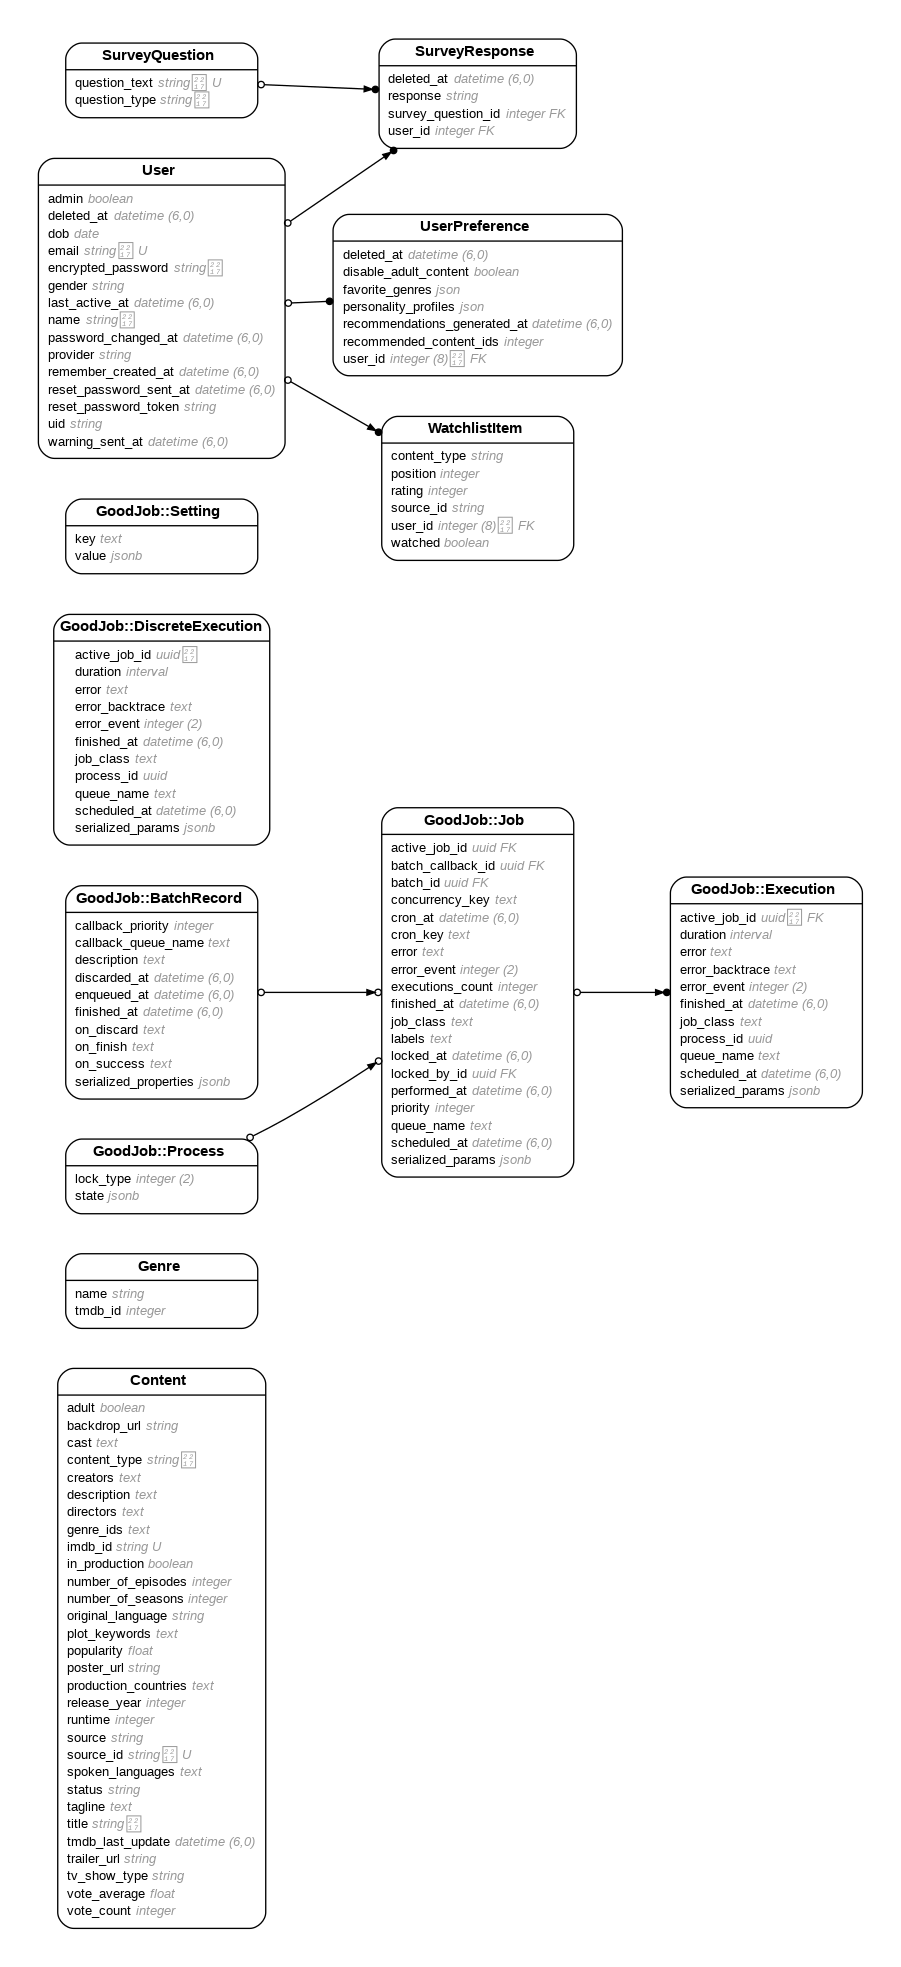
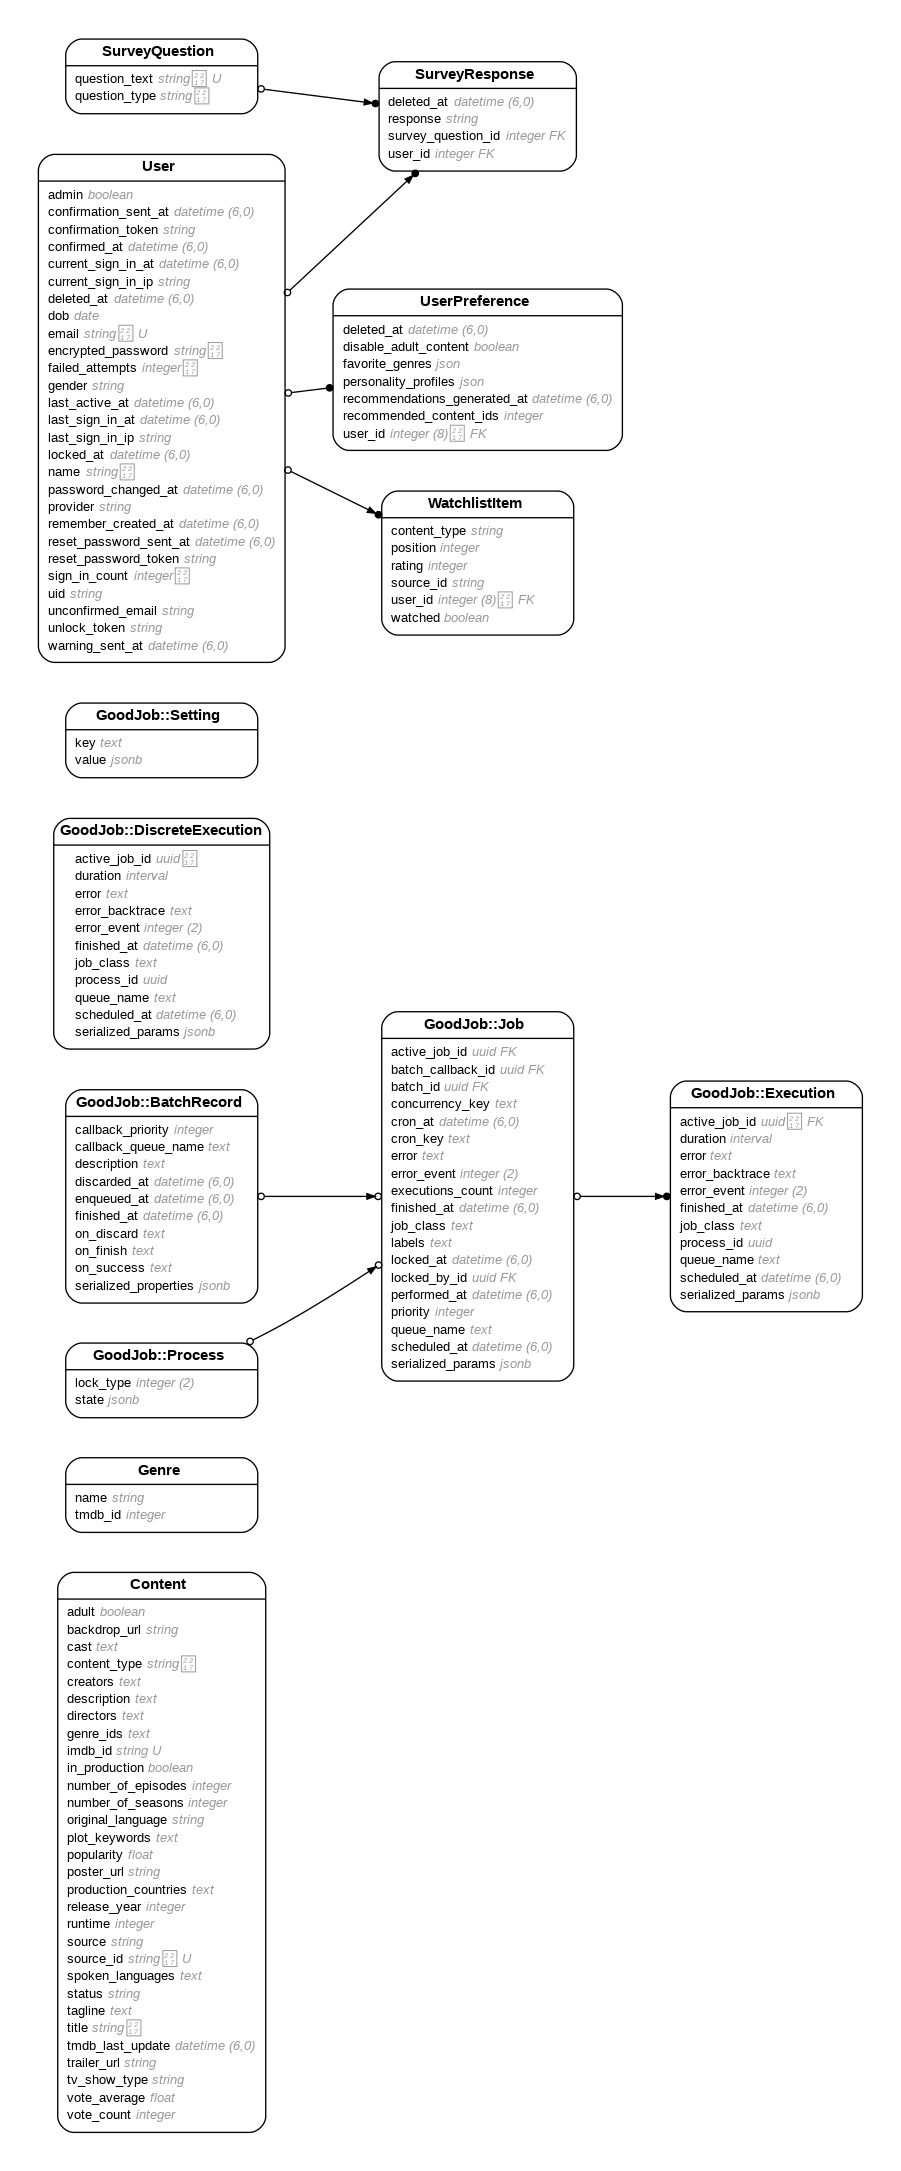
setup advanced security with Devise

diff --git a/app/assets/stylesheets/application.css b/app/assets/stylesheets/application.css
@@ -1026,3 +1026,22 @@ h6 {
     line-height: 1.3;
   }
 }
+
+.btn-group-responsive {
+  display: flex;
+  flex-direction: column;
+  gap: 0.5rem;
+}
+
+@media (min-width: 400px) {
+  .btn-group-responsive {
+    flex-direction: row;
+    justify-content: space-between;
+    align-items: center;
+  }
+  
+  .btn-group-responsive .btn-group {
+    display: flex;
+    gap: 0.5rem;
+  }
+}

diff --git a/config/initializers/devise.rb b/config/initializers/devise.rb
@@ -90,7 +90,7 @@ Devise.setup do |config|
   # It will change confirmation, password recovery and other workflows
   # to behave the same regardless if the e-mail provided was right or wrong.
   # Does not affect registerable.
-  # config.paranoid = true
+  config.paranoid = true
 
   # By default Devise will store the user in session. You can skip storage for
   # particular strategies by setting this option.
@@ -129,10 +129,10 @@ Devise.setup do |config|
[1 lines of base64/hex data omitted]
 
   # Send a notification to the original email when the user's email is changed.
-  # config.send_email_changed_notification = false
+  config.send_email_changed_notification = true
 
   # Send a notification email when the user's password is changed.
-  # config.send_password_change_notification = false
+  config.send_password_change_notification = true
 
   # ==> Configuration for :confirmable
   # A period that the user is allowed to access the website even without
@@ -143,7 +143,7 @@ Devise.setup do |config|
   # without confirming their account.
   # Default is 0.days, meaning the user cannot access the website without
   # confirming their account.
-  # config.allow_unconfirmed_access_for = 2.days
+  config.allow_unconfirmed_access_for = 1.day
 
   # A period that the user is allowed to confirm their account before their
   # token becomes invalid. For example, if set to 3.days, the user can confirm
@@ -151,7 +151,7 @@ Devise.setup do |config|
   # their account can't be confirmed with the token any more.
   # Default is nil, meaning there is no restriction on how long a user can take
   # before confirming their account.
-  # config.confirm_within = 3.days
+  config.confirm_within = 3.days
 
   # If true, requires any email changes to be confirmed (exactly the same way as
   # initial account confirmation) to be applied. Requires additional unconfirmed_email
@@ -170,11 +170,11 @@ Devise.setup do |config|
   config.expire_all_remember_me_on_sign_out = true
 
   # If true, extends the user's remember period when remembered via cookie.
-  # config.extend_remember_period = false
+  config.extend_remember_period = false
 
   # Options to be passed to the created cookie. For instance, you can set
   # secure: true in order to force SSL only cookies.
-  # config.rememberable_options = {}
+  config.rememberable_options = { secure: true, same_site: :strict }
 
   # ==> Configuration for :validatable
   # Range for password length.
@@ -194,7 +194,7 @@ Devise.setup do |config|
   # Defines which strategy will be used to lock an account.
   # :failed_attempts = Locks an account after a number of failed attempts to sign in.
   # :none            = No lock strategy. You should handle locking by yourself.
-  # config.lock_strategy = :failed_attempts
+  config.lock_strategy = :failed_attempts
 
   # Defines which key will be used when locking and unlocking an account
   # config.unlock_keys = [:email]
@@ -204,17 +204,17 @@ Devise.setup do |config|
   # :time  = Re-enables login after a certain amount of time (see :unlock_in below)
   # :both  = Enables both strategies
   # :none  = No unlock strategy. You should handle unlocking by yourself.
-  # config.unlock_strategy = :both
+  config.unlock_strategy = :both
 
   # Number of authentication tries before locking an account if lock_strategy
   # is failed attempts.
-  # config.maximum_attempts = 20
+  config.maximum_attempts = 5
 
   # Time interval to unlock the account if :time is enabled as unlock_strategy.
-  # config.unlock_in = 1.hour
+  config.unlock_in = 1.hour
 
   # Warn on the last attempt before the account is locked.
-  # config.last_attempt_warning = true
+  config.last_attempt_warning = true
 
   # ==> Configuration for :recoverable
   #
@@ -335,13 +335,13 @@ Devise.setup do |config|
   # config.captcha_for_recover = true
 
   # captcha integration for sign up form
-  # config.captcha_for_sign_up = true
+  config.captcha_for_sign_up = true
 
   # captcha integration for sign in form
   # config.captcha_for_sign_in = true
 
   # captcha integration for unlock form
-  # config.captcha_for_unlock = true
+  config.captcha_for_unlock = true
 
   # captcha integration for confirmation form
   # config.captcha_for_confirmation = true

diff --git a/app/models/user.rb b/app/models/user.rb
@@ -6,39 +6,54 @@
 #
 #  id                     :bigint           not null, primary key
 #  admin                  :boolean          default(FALSE)
+#  confirmation_sent_at   :datetime
+#  confirmation_token     :string
+#  confirmed_at           :datetime
+#  current_sign_in_at     :datetime
+#  current_sign_in_ip     :string
 #  deleted_at             :datetime
 #  dob                    :date
 #  email                  :string           default(""), not null
 #  encrypted_password     :string           default(""), not null
+#  failed_attempts        :integer          default(0), not null
 #  gender                 :string
 #  last_active_at         :datetime
+#  last_sign_in_at        :datetime
+#  last_sign_in_ip        :string
+#  locked_at              :datetime
 #  name                   :string
 #  password_changed_at    :datetime
 #  provider               :string
 #  remember_created_at    :datetime
 #  reset_password_sent_at :datetime
 #  reset_password_token   :string
+#  sign_in_count          :integer          default(0), not null
 #  uid                    :string
+#  unconfirmed_email      :string
+#  unlock_token           :string
 #  warning_sent_at        :datetime
 #  created_at             :datetime         not null
 #  updated_at             :datetime         not null
 #
 # Indexes
 #
+#  index_users_on_confirmation_token    (confirmation_token) UNIQUE
 #  index_users_on_deleted_at            (deleted_at)
 #  index_users_on_email                 (email) UNIQUE
 #  index_users_on_last_active_at        (last_active_at)
 #  index_users_on_provider_and_uid      (provider,uid) UNIQUE
 #  index_users_on_reset_password_token  (reset_password_token) UNIQUE
+#  index_users_on_unlock_token          (unlock_token) UNIQUE
 #  index_users_on_warning_sent_at       (warning_sent_at)
 #
 class User < ApplicationRecord
   acts_as_paranoid
 
   # Include default devise modules. Others available are:
-  # :confirmable, :lockable, :timeoutable, :trackable and :omniauthable
+  # :confirmable, :lockable, :timeoutable, :trackable
   devise :database_authenticatable, :registerable,
          :recoverable, :rememberable, :validatable,
+         :confirmable, :lockable, :trackable,
          :secure_validatable, :timeoutable,
          :omniauthable, omniauth_providers: [:google_oauth2, :facebook, :twitter, :apple]
 

diff --git a/db/schema.rb b/db/schema.rb
@@ -10,7 +10,7 @@
 #
 # It's strongly recommended that you check this file into your version control system.
 
-ActiveRecord::Schema[7.1].define(version: 2024_11_21_201238) do
+ActiveRecord::Schema[7.1].define(version: 2024_11_22_164427) do
   # These are extensions that must be enabled in order to support this database
   enable_extension "pg_trgm"
   enable_extension "pgcrypto"
@@ -214,11 +214,25 @@ ActiveRecord::Schema[7.1].define(version: 2024_11_21_201238) do
     t.datetime "deleted_at"
     t.datetime "warning_sent_at"
     t.datetime "last_active_at"
+    t.string "confirmation_token"
+    t.datetime "confirmed_at"
+    t.datetime "confirmation_sent_at"
+    t.string "unconfirmed_email"
+    t.integer "failed_attempts", default: 0, null: false
+    t.datetime "locked_at"
+    t.string "unlock_token"
+    t.integer "sign_in_count", default: 0, null: false
+    t.datetime "current_sign_in_at"
+    t.datetime "last_sign_in_at"
+    t.string "current_sign_in_ip"
+    t.string "last_sign_in_ip"
+    t.index ["confirmation_token"], name: "index_users_on_confirmation_token", unique: true
     t.index ["deleted_at"], name: "index_users_on_deleted_at"
     t.index ["email"], name: "index_users_on_email", unique: true
     t.index ["last_active_at"], name: "index_users_on_last_active_at"
     t.index ["provider", "uid"], name: "index_users_on_provider_and_uid", unique: true
     t.index ["reset_password_token"], name: "index_users_on_reset_password_token", unique: true
+    t.index ["unlock_token"], name: "index_users_on_unlock_token", unique: true
     t.index ["warning_sent_at"], name: "index_users_on_warning_sent_at"
   end
 

diff --git a/app/controllers/users/sessions_controller.rb b/app/controllers/users/sessions_controller.rb
@@ -1,13 +1,36 @@
 class Users::SessionsController < Devise::SessionsController
-  def create
-    super do |resource|
-      if resource.persisted?
-        if request.xhr?
-          render json: { success: true, redirect: root_path } and return
-        else
-          redirect_to root_path and return
-        end
+  prepend_before_action :check_user_confirmation, only: [:create]
+  skip_before_action :verify_authenticity_token, only: :create
+  
+  def new
+    Rails.logger.info "=== Starting Sessions#new ==="
+    super
+  end
+
+  protected
+
+  def check_user_confirmation
+    Rails.logger.warn "=== Checking user confirmation ==="
+    user = User.find_by(email: sign_in_params[:email])
+    Rails.logger.warn "Found user: #{user&.id}, Confirmed: #{user&.confirmed?}, Confirmation sent at: #{user&.confirmation_sent_at}"
+    
+    if user && !user.confirmed?
+      Rails.logger.warn "User #{user.id} is unconfirmed, sending instructions"
+      begin
+        # Use Devise's public API
+        token = user.confirmation_token || user.send(:generate_confirmation_token)
+        Devise.mailer.confirmation_instructions(user, token).deliver_now
+        Rails.logger.warn "Confirmation instructions sent synchronously"
+      rescue => e
+        Rails.logger.error "Error sending confirmation: #{e.full_message}"
       end
+      flash[:notice] = t('devise.confirmations.send_instructions')
+      redirect_to new_user_session_path
+      return false
     end
+  end
+
+  def auth_options
+    { scope: resource_name, recall: "#{controller_path}#new" }
   end
 end

diff --git a/config/routes.rb b/config/routes.rb
@@ -8,9 +8,12 @@ Rails.application.routes.draw do
   root to: "pages#landing"
 
   devise_for :users, controllers: {
-            passwords: "users/passwords",
-            registrations: "users/registrations",
-            sessions: "users/sessions"
+            passwords: 'users/passwords',
+            registrations: 'users/registrations',
+            sessions: 'users/sessions',
+            confirmations: 'users/confirmations',
+            unlocks: 'users/unlocks',
+            omniauth_callbacks: 'users/omniauth_callbacks'
           }
 
   resources :users, only: [:show, :edit, :update, :destroy] do

diff --git a/app/controllers/users/unlocks_controller.rb b/app/controllers/users/unlocks_controller.rb
@@ -1,0 +1,19 @@
+class Users::UnlocksController < Devise::UnlocksController
+  prepend_before_action :check_captcha, only: [:create]
+
+  protected
+
+  def after_unlock_path_for(resource)
+    root_path
+  end
+
+  private
+
+  def check_captcha
+    return if verify_recaptcha
+
+    self.resource = resource_class.new
+    resource.validate
+    respond_with_navigational(resource) { render :new }
+  end
+end

diff --git a/db/migrate/20241122164427_add_trackable_to_users.rb b/db/migrate/20241122164427_add_trackable_to_users.rb
@@ -1,0 +1,9 @@
+class AddTrackableToUsers < ActiveRecord::Migration[7.1]
+  def change
+    add_column :users, :sign_in_count, :integer, default: 0, null: false
+    add_column :users, :current_sign_in_at, :datetime
+    add_column :users, :last_sign_in_at, :datetime
+    add_column :users, :current_sign_in_ip, :string
+    add_column :users, :last_sign_in_ip, :string
+  end
+end

diff --git a/db/migrate/20241122152708_add_confirmable_to_users.rb b/db/migrate/20241122152708_add_confirmable_to_users.rb
@@ -1,0 +1,9 @@
+class AddConfirmableToUsers < ActiveRecord::Migration[7.1]
+  def change
+    add_column :users, :confirmation_token, :string
+    add_column :users, :confirmed_at, :datetime
+    add_column :users, :confirmation_sent_at, :datetime
+    add_column :users, :unconfirmed_email, :string
+    add_index :users, :confirmation_token, unique: true
+  end
+end

diff --git a/db/migrate/20241122164107_add_lockable_to_users.rb b/db/migrate/20241122164107_add_lockable_to_users.rb
@@ -1,0 +1,8 @@
+class AddLockableToUsers < ActiveRecord::Migration[7.1]
+  def change
+    add_column :users, :failed_attempts, :integer, default: 0, null: false
+    add_column :users, :locked_at, :datetime
+    add_column :users, :unlock_token, :string
+    add_index :users, :unlock_token, unique: true
+  end
+end

diff --git a/app/controllers/users/confirmations_controller.rb b/app/controllers/users/confirmations_controller.rb
@@ -1,0 +1,3 @@
+class Users::ConfirmationsController < Devise::ConfirmationsController
+  # No CAPTCHA needed for confirmation
+end 
